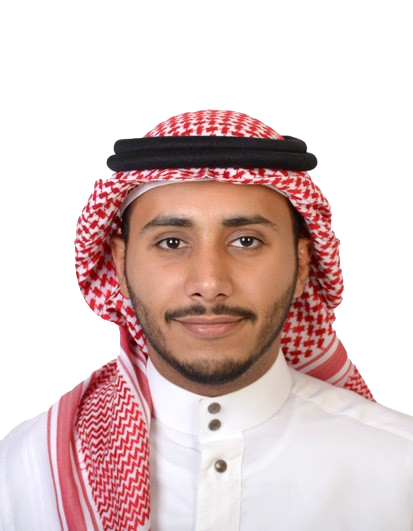
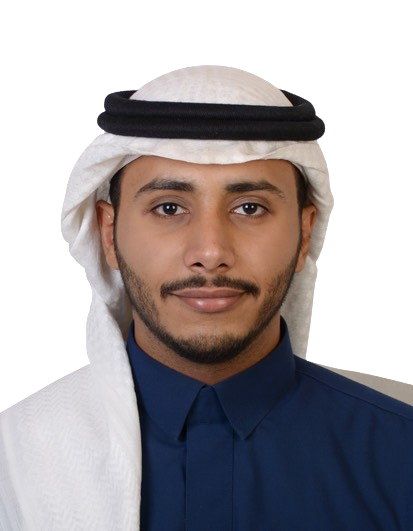
change theme color

diff --git a/style.css b/style.css
@@ -63,7 +63,6 @@
 /* variables */
 :root {
     /* colors */
-
     --black-color: #111111;
     --white-color: #fafafa;
     --text-black-color: #111111;
@@ -72,20 +71,20 @@
     --bg-2-color: #f5f5f5;
     --border-color: #cccccc;
     --static-white-color: #fafafa;
-    --bg-navbar-color: #444;
+    --bg-navbar-color: #003457;
     --bg-footer-copyright-color: #444;
     --gray-color: gray;
     --gray-bg-color: rgba(128, 128, 128, 0.05);
     --text-gray-color: gray;
 
-    --primary-color: #CC5452;
-    --secondary-color: #e49594;
+    --primary-color: #007BCB;
+    --secondary-color: #0065A8;
     --theme-color: #95b0fa;
-    --cta-color: #06662E;
-    --cta-hover-color: #349660;
-    --gradient--deep-color: #003DB3;
-    --gradient-mediator-color: #4D77CA;
-    --gradient-superficial-color: #99B1E1;
+    --cta-color: #0096FA;
+    --cta-hover-color: #007BCB;
+    --gradient--deep-color: #003457;
+    --gradient-mediator-color: #007BCB;
+    --gradient-superficial-color: #0065A8;
     --instagram-color: #833AB4;
     --tiktok-color: #FE2C55;
     --linkedin-color: #0077B5;
@@ -116,6 +115,8 @@
     --navbar-height: 64px;
 
     --container-width: 1400px;
+
+    --sectio-mw: 992px;
 }
 
 .darkmode {
@@ -149,6 +150,7 @@ html {
     box-sizing: inherit;
     scroll-behavior: smooth;
     height: -webkit-fill-available;
+    scroll-padding-top: var(--navbar-height);
 }
 
 body {
@@ -157,6 +159,7 @@ body {
     line-height: 1.6;
     font-size: var(--sizing-md);
     color: var(--text-black-color);
+    padding-top: var(--navbar-height);
 }
 
 p {
@@ -246,6 +249,7 @@ select {
     align-items: center;
     justify-content: center;
     flex-direction: column;
+    position: fixed;
     width: 100%;
     left: 0;
     right: 0;
@@ -437,6 +441,13 @@ select {
 
 }
 
+.c-hero .o-container {
+    display: flex;
+    flex-direction: column;
+    justify-content: center;
+    align-items: center;
+}
+
 .c-hero__content {
     display: flex;
     flex-direction: column;
@@ -445,6 +456,7 @@ select {
     text-align: center;
     gap: var(--spacing-lg);
     font-size: var(--sizing-mm);
+    max-width: var(--sectio-mw);
 }
 
 
@@ -747,7 +759,7 @@ select {
 .project-card main>ul>li {
     padding: var(--spacing-sm);
     color: var(--static-white-color);
-    background-color: var(--gray-color);
+    background-color: var(--secondary-color);
 }
 
 .projects-direct {
